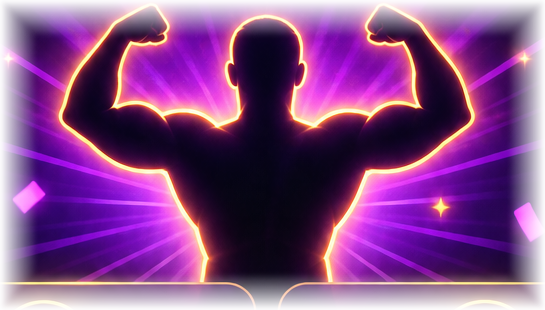
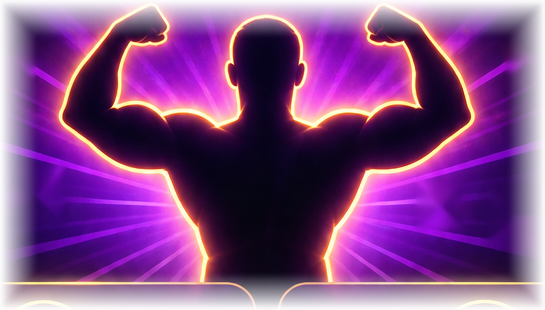
Add files via upload

diff --git a/styles.css b/styles.css
@@ -849,10 +849,30 @@ textarea:focus{border-color:rgba(84,217,255,.6);box-shadow:0 0 0 3px rgba(84,217
 .premium-workout-result .finish-feeling-row button.selected{border-color:#ffd047;background:rgba(255,199,48,.12);box-shadow:0 0 16px rgba(255,199,48,.08)}
 .premium-done-btn{width:100%;border:1px solid #ffe986;border-radius:999px;padding:12px 20px 11px;background:linear-gradient(180deg,#ffe16c,#f5ae24);color:#221300;box-shadow:0 10px 28px rgba(245,174,36,.20),inset 0 1px rgba(255,255,255,.55);display:grid;grid-template-columns:auto 1fr;grid-template-rows:auto auto;column-gap:10px;align-items:center;justify-content:center}
 .premium-done-btn span{grid-row:1/3;font-size:28px;justify-self:end}.premium-done-btn b{font-size:25px;line-height:1;justify-self:start}.premium-done-btn small{font-size:11px;justify-self:start;opacity:.74}
-.premium-confetti{position:absolute!important;inset:8px 8px auto;height:145px;z-index:1!important;pointer-events:none}
-.premium-confetti i{position:absolute;width:9px;height:18px;border-radius:2px;background:#8d36ff;transform:rotate(25deg);box-shadow:0 0 8px rgba(142,54,255,.25)}
-.premium-confetti i:nth-child(2n){background:#f8bd36;transform:rotate(-33deg)}.premium-confetti i:nth-child(3n){background:#ea62c8;width:7px;height:12px}.premium-confetti i:nth-child(4n){background:#fff0ba;width:6px;height:9px}
-.premium-confetti i:nth-child(1){left:5%;top:18px}.premium-confetti i:nth-child(2){left:18%;top:72px}.premium-confetti i:nth-child(3){left:29%;top:20px}.premium-confetti i:nth-child(4){left:39%;top:92px}.premium-confetti i:nth-child(5){left:52%;top:6px}.premium-confetti i:nth-child(6){left:64%;top:70px}.premium-confetti i:nth-child(7){left:74%;top:20px}.premium-confetti i:nth-child(8){left:89%;top:86px}.premium-confetti i:nth-child(9){left:9%;top:118px}.premium-confetti i:nth-child(10){left:84%;top:122px}.premium-confetti i:nth-child(11){left:95%;top:28px}.premium-confetti i:nth-child(12){left:57%;top:122px}
+/* v1.0.0 animated confetti burst — spawned dynamically in app.js each time
+   the workout completion screen is shown (see spawnConfetti). Replaces the
+   old static, non-animated confetti dots and the baked-in artwork sparkles
+   (the source PNG has had those cleaned out). */
+.confetti-burst{
+  position:absolute!important;top:0;left:0;right:0;height:235px;
+  overflow:hidden;pointer-events:none;z-index:1!important;
+  border-radius:30px 30px 0 0;
+}
+.confetti-piece{
+  position:absolute;top:-18px;left:0;border-radius:2px;opacity:0;
+  animation-name:confettiFall;animation-timing-function:cubic-bezier(.32,.62,.42,1);
+  animation-fill-mode:forwards;will-change:transform,opacity;
+}
+.confetti-piece.circle{border-radius:50%}
+@keyframes confettiFall{
+  0%{opacity:0;transform:translate(0,0) rotate(0deg) scale(.5)}
+  10%{opacity:1;transform:translate(calc(var(--sway) * .15),26px) rotate(120deg) scale(1)}
+  55%{opacity:1}
+  100%{opacity:0;transform:translate(var(--sway),265px) rotate(var(--rot)) scale(.85)}
+}
+@media(prefers-reduced-motion:reduce){
+  .confetti-piece{animation:none!important;opacity:0!important}
+}
 @media(max-width:430px){
   .premium-workout-result{padding:18px 14px 18px;border-radius:25px}.premium-star{width:56px;height:56px;font-size:29px}.premium-workout-result h2{font-size:38px}.premium-subtitle{font-size:15px!important}.premium-athlete{height:145px}.premium-result-grid{gap:7px}.workout-result-grid .premium-stat-card{padding:12px 7px}.premium-stat-card strong{font-size:28px!important}.premium-stat-card small{font-size:10px}.premium-motivation{grid-template-columns:45px 1fr;padding:11px 12px}.premium-motivation b{font-size:38px}.premium-motivation span{font-size:12px}
 }
@@ -871,7 +891,6 @@ textarea:focus{border-color:rgba(84,217,255,.6);box-shadow:0 0 0 3px rgba(84,217
 
 /* v0.9.5 approved premium workout silhouette asset */
 .premium-athlete-image{
-  position:relative;
   height:190px;
   max-width:390px;
   margin:-6px auto -10px;
@@ -880,45 +899,6 @@ textarea:focus{border-color:rgba(84,217,255,.6);box-shadow:0 0 0 3px rgba(84,217
   justify-content:center;
   overflow:visible;
   filter:none;
-}
-
-/* v0.9.9 animated sparkle overlay, layered above the static artwork to
-   bring its baked-in confetti/diamond accents to life on show. */
-.athlete-sparkle-overlay{position:absolute;inset:0;pointer-events:none;overflow:visible}
-.ath-spark{position:absolute;opacity:0;will-change:transform,opacity}
-.ath-spark.star{
-  color:#fff2c4;font-size:20px;line-height:1;
-  text-shadow:0 0 10px rgba(255,211,79,.8),0 0 20px rgba(255,211,79,.4);
-  animation:athStarTwinkle 2.8s ease-in-out infinite;
-}
-.ath-spark.diamond{
-  width:16px;height:16px;border-radius:3px;
-  background:linear-gradient(135deg,#ff9bea,#c33bff);
-  box-shadow:0 0 12px rgba(234,98,220,.65);
-  transform:rotate(45deg);
-  animation:athDiamondTwinkle 2.8s ease-in-out infinite;
-}
-.ath-spark.diamond-sm{width:11px;height:11px}
-.ath-spark.sp1{left:13%;top:66%;animation-delay:.05s}
-.ath-spark.sp2{right:12%;top:51%;font-size:24px;animation-delay:.6s}
-.ath-spark.sp3{right:9%;top:69%;animation-delay:1.15s}
-
-@keyframes athStarTwinkle{
-  0%{opacity:0;transform:scale(.3) rotate(0deg)}
-  25%{opacity:1;transform:scale(1.15) rotate(14deg)}
-  50%{opacity:.45;transform:scale(.78) rotate(-8deg)}
-  75%{opacity:1;transform:scale(1.08) rotate(9deg)}
-  100%{opacity:.7;transform:scale(.9) rotate(0deg)}
-}
-@keyframes athDiamondTwinkle{
-  0%{opacity:0;transform:rotate(45deg) scale(.3)}
-  25%{opacity:1;transform:rotate(45deg) scale(1.2)}
-  50%{opacity:.45;transform:rotate(45deg) scale(.8)}
-  75%{opacity:1;transform:rotate(45deg) scale(1.08)}
-  100%{opacity:.75;transform:rotate(45deg) scale(1)}
-}
-@media(prefers-reduced-motion:reduce){
-  .ath-spark{animation:none!important;opacity:.85!important}
 }
 .premium-athlete-image img{
   display:block;

diff --git a/app.js b/app.js
@@ -1293,6 +1293,28 @@ $("nextExerciseBtn").addEventListener("click",()=>{
   if((w.currentExerciseIndex||0)<w.exercises.length-1){w.currentExerciseIndex+=1;saveState();renderLiveExercises();}
   else showWorkoutCelebration();
 });
+function spawnConfetti(container,count=34){
+  if(!container)return;
+  container.innerHTML="";
+  const colors=["#8d36ff","#f8bd36","#ea62c8","#fff0ba","#54d9ff"];
+  const frag=document.createDocumentFragment();
+  for(let i=0;i<count;i++){
+    const p=document.createElement("i");
+    const isCircle=Math.random()<0.32;
+    p.className="confetti-piece"+(isCircle?" circle":"");
+    const size=6+Math.random()*7;
+    p.style.width=(isCircle?size:size*0.68)+"px";
+    p.style.height=(isCircle?size:size*1.75)+"px";
+    p.style.left=(Math.random()*100)+"%";
+    p.style.background=colors[Math.floor(Math.random()*colors.length)];
+    p.style.setProperty("--sway",(Math.random()*70-35)+"px");
+    p.style.setProperty("--rot",(360+Math.random()*540)+"deg");
+    p.style.animationDuration=(1.5+Math.random()*1.15)+"s";
+    p.style.animationDelay=(Math.random()*0.55)+"s";
+    frag.appendChild(p);
+  }
+  container.appendChild(frag);
+}
 function showWorkoutCelebration(){
   const w=state.activeWorkout;if(!w)return;clearInterval(workoutTimer);
   const mins=Math.max(1,elapsedMinutes(w.startedAt)),volume=workoutVolume(w);
@@ -1301,6 +1323,7 @@ function showWorkoutCelebration(){
   $("finishTotalWeight").textContent=volume>0?`${fmt(volume)} kg`:"—";
   $("finishWorkoutDuration").textContent=mins<60?`${mins} min`:elapsedClock(w.startedAt);
   finishFeeling=3;qsa("[data-finish-feel]").forEach(x=>x.classList.toggle("selected",x.dataset.finishFeel==="3"));
+  spawnConfetti($("confettiBurst"));
 
   // The completion screen is a fresh full-screen moment, not a continuation
   // of the scrolled live-workout sheet.

diff --git a/index.html b/index.html
@@ -10,7 +10,7 @@
   <meta name="application-name" content="CholScore" />
   <title>CholScore</title>
   <link rel="manifest" href="manifest.json" />
-  <link rel="stylesheet" href="styles.css?v=099" />
+  <link rel="stylesheet" href="styles.css?v=100" />
 </head>
 <body>
   <div id="app">
@@ -367,21 +367,14 @@
   </dialog>
 
   <dialog id="finishFeelingDialog" class="modal workout-celebration celebration premium-workout-result">
-    <div class="premium-confetti" aria-hidden="true">
-      <i></i><i></i><i></i><i></i><i></i><i></i><i></i><i></i><i></i><i></i><i></i><i></i>
-    </div>
+    <div id="confettiBurst" class="confetti-burst" aria-hidden="true"></div>
     <div class="premium-star" aria-hidden="true">★</div>
     <p class="eyebrow premium-complete-label">WORKOUT COMPLETE</p>
     <h2 id="finishFeelingTitle">Amazing work!</h2>
     <p id="finishWorkoutSummary" class="workout-celebration-message premium-subtitle"></p>
 
     <div class="premium-athlete premium-athlete-image" aria-hidden="true">
-      <img src="workout-victory-silhouette.png?v=099" alt="" />
-      <div class="athlete-sparkle-overlay" aria-hidden="true">
-        <span class="ath-spark diamond sp1"></span>
-        <span class="ath-spark star sp2">✦</span>
-        <span class="ath-spark diamond diamond-sm sp3"></span>
-      </div>
+      <img src="workout-victory-silhouette.png?v=100" alt="" />
     </div>
 
     <div class="workout-result-grid premium-result-grid">
@@ -618,7 +611,7 @@
   </dialog>
 
   <script src="https://unpkg.com/html5-qrcode@2.3.8/html5-qrcode.min.js"></script>
-  <script src="app.js?v=099"></script>
+  <script src="app.js?v=100"></script>
 
   <script>
     if ("serviceWorker" in navigator) {

diff --git a/sw.js b/sw.js
@@ -1,4 +1,4 @@
-const CACHE = "cholscore-v099";
+const CACHE = "cholscore-v100";
 
 const APP_SHELL = [
   "./",

diff --git a/README.md b/README.md
@@ -1,4 +1,4 @@
-CholScore v0.9.9 - Animated sparkle overlay on workout completion screen
+CholScore v1.0.0 - Fully animated confetti burst on workout completion screen
 
 # CholScore v0.8.5 — Cache + Delete Hotfix
 
@@ -39,15 +39,17 @@ No new features.
 - Cancelled workouts are not written to History.
 - service-worker cache version bumped to `cholscore-v091`.
 
-## v0.9.9 animated sparkle overlay
-- The confetti diamond and stars in `workout-victory-silhouette.png` are baked into the
-  flat artwork, so they can't be animated directly — instead a lightweight, purely CSS
-  sparkle layer (`.athlete-sparkle-overlay`) sits on top of the image, positioned over
-  the artwork's existing diamond and star accents.
-- Sparkles twinkle (scale + opacity + a little rotation) on a staggered loop, using
-  colours matched to the artwork (pink/magenta diamond, warm gold/white stars).
-- Because `<dialog>` is `display:none` while closed, the CSS animation restarts fresh
-  every time the workout completion screen is shown — no JS trigger needed.
-- Respects `prefers-reduced-motion`: sparkles show statically instead of animating.
-- `index.html`, `styles.css`, and the image cache-busting query strings bumped to `v099`.
-- service-worker cache version bumped to `cholscore-v099`.
+## v1.0.0 fully animated confetti burst
+- Removed the confetti diamond and star shapes that were baked into
+  `workout-victory-silhouette.png` (cleaned out with inpainting) — the artwork is now
+  a plain silhouette with no static decoration on it.
+- Removed the old static, non-animated `.premium-confetti` dots that sat behind the
+  title.
+- Replaced both with a single animated confetti burst (`#confettiBurst` /
+  `spawnConfetti()` in app.js): ~34 randomly coloured, sized, and timed pieces are
+  generated fresh each time `showWorkoutCelebration()` runs, and fall/rotate/fade via
+  a `confettiFall` CSS keyframe.
+- Palette matches the app's existing purple/gold/pink/cream/cyan accents.
+- Respects `prefers-reduced-motion`: confetti pieces stay invisible instead of animating.
+- `index.html`, `styles.css`, and the image cache-busting query strings bumped to `v100`.
+- service-worker cache version bumped to `cholscore-v100`.
